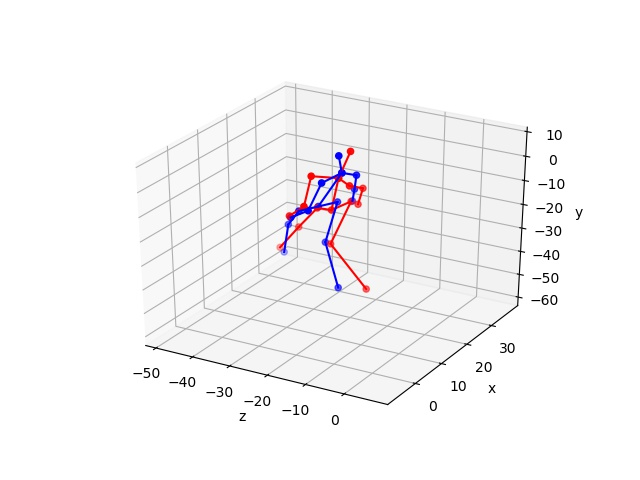
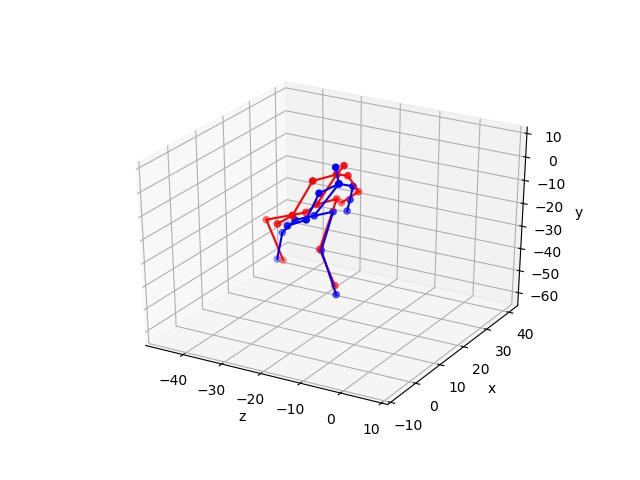
2d

diff --git a/src/my.py b/src/my.py
@@ -1,0 +1,97 @@
+
+# -*- coding: utf-8 -*-
+
+import sys
+sys.path.insert(0, '/home/project/multipose/src_3d/')
+import torch.utils.data
+#from datasets.cmu import CMU
+from random import randint
+
+import numpy as np
+import matplotlib.pyplot as plt
+import cv2
+#from datasets.h36m import H36M
+#from visualise_maps import visualise_map
+js=['rank','rkne','rhip','lhip','lknee','lank','pelvi','spin','neck','head','rwr','relb','rshou','lshou','lelb','lwri']
+ls=['rloleg','rupleg','rhip','lhip','lupleg','lloleg','rloarm','ruparm','rshou','lshou','luparm','lloarm','spine','head']
+
+
+
+
+
+
+def test_heatmaps(heatmaps,img,i):
+    heatmaps=heatmaps.numpy()
+    #heatmaps=np.squeeze(heatmaps)
+    heatmaps=heatmaps[:,:64,:]
+    heatmaps=heatmaps.transpose(1,2,0)
+    print('heatmap inside shape is',heatmaps.shape)
+##    print('----------------here')
+##    print(heatmaps.shape)
+    img=img.numpy()
+    #img=np.squeeze(img)
+    img=img.transpose(1,2,0)
+    img=cv2.cvtColor(img, cv2.COLOR_BGR2GRAY)
+#    print('heatmaps',heatmaps.shape)
+    heatmaps = cv2.resize(heatmaps,(0,0), fx=4,fy=4)
+#    print('heatmapsafter',heatmaps.shape)
+    for j in range(0, 16):
+        heatmap = heatmaps[:,:,j]
+        heatmap = heatmap.reshape((256,256,1))
+        heatmapimg = np.array(heatmap * 255, dtype = np.uint8)
+        heatmap = cv2.applyColorMap(heatmapimg, cv2.COLORMAP_JET)
+        heatmap = heatmap/255
+        plt.imshow(img)
+        plt.imshow(heatmap, alpha=0.5)
+        plt.show()
+        #plt.savefig('hmtestpadh36'+str(i)+js[j]+'.png')
+        
+
+
+def test_vecmaps(vecmaps,img,i):
+    vecmaps = vecmaps.numpy()
+    vecmaps=np.squeeze(vecmaps)
+    vecmaps=vecmaps[:,:64,:]
+    vecmaps=vecmaps.transpose(1,2,0)
+    print('vecmapisss',vecmaps.shape)
+    img=img.numpy()
+    img=np.squeeze(img)
+    img=img.transpose(1,2,0)
+    img=img[:256,:,:]
+    img=img.astype(np.uint8)
+    img=cv2.cvtColor(img, cv2.COLOR_BGR2GRAY)
+    vecmaps = cv2.resize(vecmaps, (0,0), fx=4,fy=4)
+    for k in range(0, 28, 2):
+        vec = np.abs(vecmaps[:,:,k])
+        vec += np.abs(vecmaps[:,:,k + 1])
+        vec[vec > 1] = 1
+        vec = np.reshape(vec,(256,256,1))
+        vecimg = np.array(vec * 255, dtype = np.uint8)
+        vec = cv2.applyColorMap(vecimg, cv2.COLORMAP_JET)
+        vec=vec/255;
+        print('vecmap shapeeeee',vec.shape)
+#        vec = vec.reshape((256,256))
+
+        plt.imshow(img)
+        plt.imshow(vec,alpha=0.5)
+        plt.savefig('vmh36'+str(i)+ls[k//2]+'.png')
+        plt.close()
+
+
+def func1(k=None):
+    if not k:
+        k=randint(0, 20)
+    print('image is',k)
+    for i, (img, heatmap,vecmap,depthmap,kpt_3d) in enumerate(train_loader):
+        if i==k:
+#            test_heatmaps(heatmap,img,i)
+#            test_vecmaps(vecmap,img,i)
+#            edges = [[0, 1], [1, 2], [2, 6], [6, 3], [3, 4], [4, 5], [10, 11], [11, 12], [12, 8], [8, 13], [13, 14], [14, 15], [6, 8], [8, 9]]
+#            ppl=kpt_3d.shape[0]
+#            for i in range(ppl):
+#                for edge in edges:
+#                    cv2.line(img,(int(kpt_3d[i][edge[0]][0]),int(kpt_3d[i][edge[0]][1])),(int(kpt_3d[i][edge[1]][0]),int(kpt_3d[i][edge[1]][1])),(0,255,0))
+#            cv2.imwrite('outside3dfinal.png',img)
+       
+            return img,heatmap,vecmap,depthmap,kpt_3d
+

diff --git a/src/utils/pyTools.py b/src/utils/pyTools.py
@@ -1,0 +1,92 @@
+import sys
+import h5py
+import numpy as np
+import cv2
+
+def getData(tmpFile):
+	data = h5py.File(tmpFile, 'r')
+	d = {}
+	for k, v in data.items():
+		d[k] = np.asarray(data[k])
+	data.close()
+	return d
+
+def ShowImg(data):
+	img = data['img']
+	img[0], img[2] = img[2].copy(), img[0].copy()
+	if img.shape[0] == 3:
+		img = img.transpose(1, 2, 0)
+	cv2.imshow('img', img)
+
+J = 16
+edges = [[0, 1], [1, 2], [2, 6], [6, 3], [3, 4], [4, 5], 
+				 [10, 11], [11, 12], [12, 8], [8, 13], [13, 14], [14, 15], 
+				 [6, 8], [8, 9]]
+
+def show_3d(ax, points, c = (255, 0, 0)):
+	points = points.reshape(J, 3)
+	points[7] = points[8]
+	x, y, z = np.zeros((3, J))
+	for j in range(J):
+		x[j] = points[j, 0] 
+		y[j] = - points[j, 1] 
+		z[j] = - points[j, 2] 
+	ax.scatter(z, x, y, c = c)
+	for e in edges:
+		ax.plot(z[e], x[e], y[e], c =c)
+		
+		
+def show_2d(img, points, c = 'g'):
+	points = points.reshape(J, 2)
+	for j in range(J):
+		cv2.circle(img, (int(points[j, 0]), int(points[j, 1])), 3, c, -1)
+	for e in edges:
+		cv2.line(img, (int(points[e[0], 0]), int(points[e[0], 1])), 
+									(int(points[e[1], 0]), int(points[e[1], 1])), c, 2)
+
+def Show3d(datas,dir_path,epoch,index,frame):
+	
+	if(type(datas)!=list):
+		datas = [datas]
+
+	import matplotlib.pyplot as plt
+	import mpl_toolkits.mplot3d
+	from mpl_toolkits.mplot3d import Axes3D
+	fig = plt.figure()
+	ax = fig.add_subplot((121),projection='3d')
+	ax.set_xlabel('z') 
+	ax.set_ylabel('x') 
+	ax.set_zlabel('y')
+
+	for data in datas:
+			joint = data['joint']
+			oo = max(joint.max(), 2) / 8  
+			xmax, ymax, zmax, xmin, ymin, zmin = oo, oo, oo, -oo, -oo, -oo
+			if 'gt' in data:
+				show_3d(ax, data['gt'], 'r')
+			show_3d(ax, joint, 'b')
+			max_range = np.array([xmax-xmin, ymax-ymin, zmax-zmin]).max()
+			Xb = 0.5*max_range*np.mgrid[-1:2:2,-1:2:2,-1:2:2][0].flatten() + 0.5*(xmax+xmin)
+			Yb = 0.5*max_range*np.mgrid[-1:2:2,-1:2:2,-1:2:2][1].flatten() + 0.5*(ymax+ymin)
+			Zb = 0.5*max_range*np.mgrid[-1:2:2,-1:2:2,-1:2:2][2].flatten() + 0.5*(zmax+zmin)
+			for xb, yb, zb in zip(Xb, Yb, Zb):
+				ax.plot([zb], [xb], [yb], 'w')
+			if 'img' in data:
+				img = data['img'].copy()
+				stepX, stepY = 100. / img.shape[0], 100. / img.shape[1]
+				X1 = np.arange(-3000, 3000, stepX)
+				Y1 = np.arange(-1500, 1500, stepY)
+				X1, Y1 = np.meshgrid(X1, Y1)
+				ax.plot_surface(X1, -1500,Y1, rstride=1, cstride=1, facecolors=img)
+	
+	bx = fig.add_subplot((122))
+	bx = plt.imshow(frame)
+	#fig.set_dpi(100)
+	fig.savefig(dir_path+'epoch_'+str(epoch)+'index_'+str(index)+'show_3d.png')
+	#plt.show()
+	plt.close()
+
+# if __name__ == '__main__':
+# 	tmpFile = sys.argv[2]
+# 	data = getData(tmpFile)
+# 	eval(sys.argv[1] + '(data)') 

diff --git a/src2D/train.py b/src2D/train.py
@@ -9,7 +9,7 @@ import matplotlib.pyplot as plt
 from my import *
 from Losses import *
 from utils.eval import *
-from visualise_model import *
+from visualise import *
 from utils.utils import *
 
 from model.SoftArgMax import *
@@ -35,16 +35,15 @@ def step(split, epoch, opt, dataLoader, model, optimizer = None):
 		output = model(input_var)[0]
 
 		if opt.DEBUG == 2:
-			print("WHAT")
-			for i in range(input_var.shape[2]):
+			for j in range(input_var.shape[2]):
 				plt.imshow(input_var.data[0,:,i,:,:].transpose(0,1).transpose(1,2).cpu().numpy())
 
 				a = np.zeros((16,3))
 				b = np.zeros((16,3))
 				a[:,:2] = getPreds(targetMaps[:,:,i,:,:].cpu().numpy())
 				b[:,:2] = getPreds(output[opt.nStack - 1][:,:,i,:,:].data.cpu().numpy())
-				visualise3d(b,a,epoch,i)
-		
+				visualise3d(b,a,'%d'%(epoch),i,j,input_var.data[0,:,j,:,:].transpose(0,1).transpose(1,2).cpu().numpy())
+
 		loss = 0
 		for k in range(opt.nStack):
 			loss += Joints2DHeatMapsSquaredError(output[k], targetMaps)
@@ -56,7 +55,6 @@ def step(split, epoch, opt, dataLoader, model, optimizer = None):
 
 
 		if opt.DEBUG == 3 and (float(tempAcc) < 0.80):
-			print("LEFT")
 			for j in range(input_var.shape[2]):
 				a = np.zeros((16,3))
 				b = np.zeros((16,3))

diff --git a/src2D/visualise.py b/src2D/visualise.py
@@ -1,0 +1,32 @@
+# -*- coding: utf-8 -*-
+
+import os
+import sys
+from  utils.pyTools import Show3d
+import ref
+import numpy as np
+
+
+
+def visualise3d(pred,gt,epoch,iter,frindex,frame):
+    
+    pred_root_rel = pred[:,:3] - pred[ref.root,:3]
+#    gt_root_rel   = gt[:,:3]   - gt[ref.root, :3]
+    gt_length=0
+    len_pred=0
+    tot_cnt=0
+    for e in ref.edges:
+        if pred_root_rel[e[0]][0]!=0 and pred_root_rel[e[0]][1]!=0 and pred_root_rel[e[1]][1]!=0 and pred_root_rel[e[1]][1]!=0:
+            len_pred += ((pred_root_rel[e[0]][:2] - pred_root_rel[e[1]][:2]) ** 2).sum() ** 0.5
+            gt_length += ((gt[e[0]][:2] - gt[e[1]][:2]) ** 2).sum() ** 0.5
+        else:
+            tot_cnt=tot_cnt+1
+
+    gt_root   =  gt[ref.root]
+    for j in range(ref.nJoints):
+        pred_root_rel[j] = ((pred_root_rel[j]) / len_pred) * gt_length + gt_root
+    data={}
+    data['joint']=pred_root_rel
+    data['gt']=gt
+    os.system("mkdir -p Plots/mp%d"%(iter))
+    Show3d(data,'./Plots/mp%d/'%(iter), epoch, frindex, frame)

diff --git a/src/train.py b/src/train.py
@@ -9,7 +9,7 @@ import matplotlib.pyplot as plt
 from my import *
 from Losses import *
 from utils.eval import *
-from visualise_model import *
+from visualise import *
 from utils.utils import *
 
 from model.SoftArgMax import *
@@ -60,21 +60,18 @@ def step(split, epoch, opt, dataLoader, model, optimizer = None):
 		Acc.update(tempAcc)
 
 
-		for acc in acclist:
-			Acc.update(acc)
-
 		if ((meta == -1).all()):
 			pass
 			tempMPJPE = 1
 		else:
 			mplist = myMPJPE((output[opt.nStack - 1].data).cpu().numpy(), (reg.data).cpu().numpy(), meta)
-			
+
 			for l in mplist:
 				mpjpe, num3D = l
 				if num3D > 0:
 					Mpjpe.update(mpjpe, num3D)
-			tempMPJPE = (sum([x*y for x,y in mplist]))/(1.0*sum([y for x,y in mplist]))			
-		
+			tempMPJPE = (sum([x*y for x,y in mplist]))/(1.0*sum([y for x,y in mplist]))
+
 		if opt.DEBUG == 3 and (float(tempMPJPE) > 80):
 			for j in range(input_var.shape[2]):
 				a = np.zeros((16,3))

diff --git a/src/opts.py b/src/opts.py
@@ -36,7 +36,7 @@ class opts():
 		self.parser.add_argument('-patience', type = int, default = 13, help = 'patience for LR scheduler')
 		self.parser.add_argument('-threshold', type = float, default = 0.0005, help = 'threshold for LR scheduler')
 		self.parser.add_argument('-dropMag', type = float, default = 0.15, help = 'factor for LR scheduler')
-		self.parser.add_argument('-scheduler', type = int, default = 1, help = 'drop LR')
+		self.parser.add_argument('-scheduler', type = int, default = 3, help = 'drop LR')
 
 		self.parser.add_argument('-ratioHM', type = int, default = 5, help = 'weak label data ratio')
 		self.parser.add_argument('-regWeight', type = float, default = 0.2, help = 'depth regression loss weight')

diff --git a/src/ref.py b/src/ref.py
@@ -30,7 +30,8 @@ disturb = 10
 expDir = '../exp'
 dataDir = '../data/'
 ntuDataDir = dataDir + 'ntu'
-h36mDataDir = dataDir + 'h36mm'
+h36mDataDir = dataDir + 'h36m'
 mpiiDataDir = dataDir + 'mpii'
 posetrackDataDir = dataDir + 'posetrack'
 nThreads = 4
+root = 7

diff --git a/src2D/main.py b/src2D/main.py
@@ -49,8 +49,8 @@ def main():
 	)
 
 	if (opt.test):
-		val(0, opt, val_loader2, model)
 		val(0, opt, val_loader1, model)
+		val(0, opt, val_loader2, model)
 		pass
 
 
